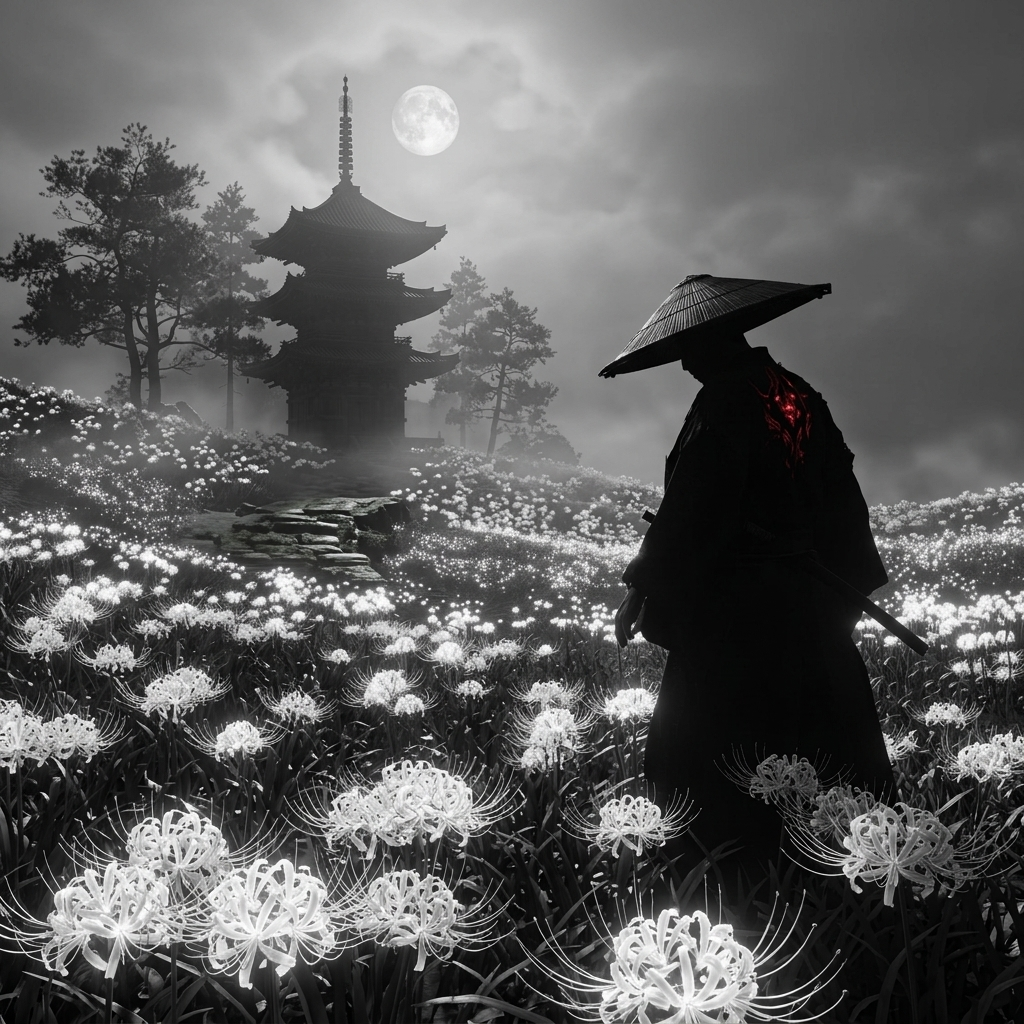
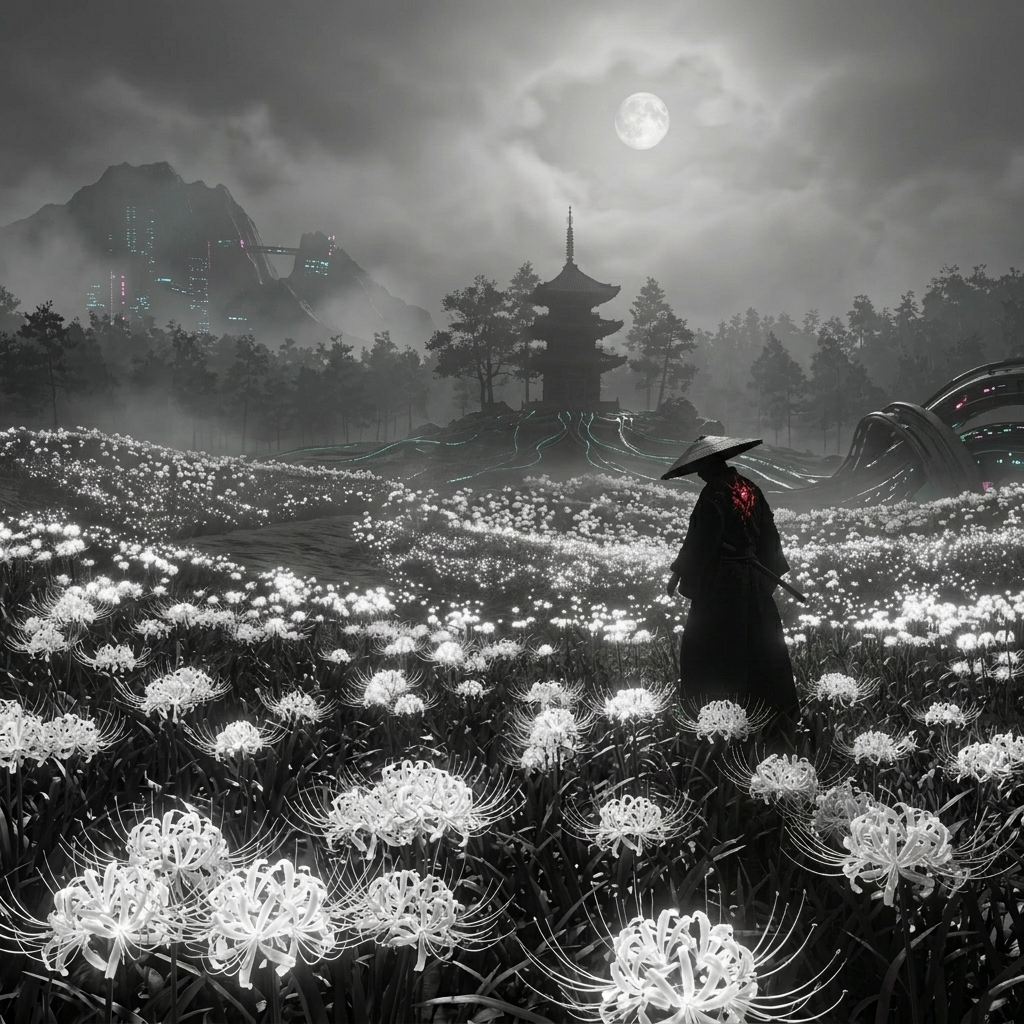
changes

diff --git a/src/index.css b/src/index.css
@@ -118,13 +118,24 @@ html[data-mode="hacker"] .bg-gradient {
 }
 
 html:not([data-mode="hacker"]) .bg-grid {
-  background-image: linear-gradient(rgba(11, 15, 23, 0.38), rgba(11, 15, 23, 0.48)), url('./assets/samurai-bg.png');
+  --bg-rx: 0deg;
+  --bg-ry: 0deg;
+  --bg-tx: 0px;
+  --bg-ty: 0px;
+  --bg-scale: 1.30;
+  --bg-parallax-y: 0px;
+
+  background-image:
+    radial-gradient(ellipse at center, transparent 30%, rgba(0, 0, 0, 0.45) 100%),
+    linear-gradient(rgba(11, 15, 23, 0.30), rgba(11, 15, 23, 0.40)),
+    url('./assets/samurai-bg.png');
   background-size: cover;
   background-position: center;
   background-repeat: no-repeat;
-  background-attachment: fixed;
   opacity: 1;
-  transform: none !important;
+  transform: perspective(1200px) scale(var(--bg-scale)) rotateX(var(--bg-rx)) rotateY(var(--bg-ry)) translate3d(var(--bg-tx), var(--bg-ty), 0px);
+  will-change: transform;
+  transform-origin: center center;
 }
 
 .bg-scanlines {
@@ -642,7 +653,8 @@ html[data-mode="hacker"] .profile-panel:hover {
   border-radius: 0.68rem;
   margin-top: 0.55rem;
   padding: 0.7rem;
-  background: color-mix(in srgb, var(--surface-strong) 65%, transparent);
+  background: transparent;
+  backdrop-filter: blur(4px);
 }
 
 .info-link:hover {
@@ -902,13 +914,13 @@ html[data-mode="hacker"] .skill-chip::before {
 
 .reveal {
   opacity: 0;
-  transform: perspective(900px) translateY(22px) rotateX(7deg) scale(0.985);
+  transform: perspective(900px) translateY(50px) rotateX(10deg) scale(0.95);
 }
 
 .reveal.show {
   opacity: 1;
   transform: perspective(900px) translateY(0) rotateX(0deg) scale(1);
-  transition: opacity 650ms ease, transform 700ms cubic-bezier(0.22, 1, 0.36, 1);
+  transition: opacity 800ms ease, transform 900ms cubic-bezier(0.22, 1, 0.36, 1);
 }
 
 .scroll-3d {
@@ -1386,11 +1398,11 @@ html:not([data-mode="hacker"]) .project-card,
 html:not([data-mode="hacker"]) .project-card-front,
 html:not([data-mode="hacker"]) .project-card-back,
 html:not([data-mode="hacker"]) .skill-chip {
-  background: linear-gradient(135deg, rgba(255, 255, 255, 0.10) 0%, rgba(255, 255, 255, 0.015) 60%, rgba(255, 255, 255, 0.0) 60.1%, rgba(255, 255, 255, 0.01) 100%) !important;
-  backdrop-filter: blur(28px) saturate(180%) !important;
-  -webkit-backdrop-filter: blur(28px) saturate(180%) !important;
-  border: 1px solid rgba(255, 255, 255, 0.22) !important;
-  box-shadow: inset 0 0 16px rgba(255, 255, 255, 0.15), 0 8px 32px 0 rgba(0, 0, 0, 0.28) !important;
+  background: linear-gradient(135deg, rgba(255, 255, 255, 0.08) 0%, rgba(255, 255, 255, 0.02) 100%) !important;
+  backdrop-filter: none !important;
+  -webkit-backdrop-filter: none !important;
+  border: 1px solid rgba(255, 255, 255, 0.18) !important;
+  box-shadow: inset 0 0 12px rgba(255, 255, 255, 0.10), 0 8px 32px 0 rgba(0, 0, 0, 0.2) !important;
 }
 
 /* Glassmorphism hover states */

diff --git a/src/App.jsx b/src/App.jsx
@@ -95,6 +95,17 @@ export default function App() {
       document.documentElement.style.setProperty("--cursor-x", `${xPercent}%`);
       document.documentElement.style.setProperty("--cursor-y", `${yPercent}%`);
 
+      // 3D parallax tilt on dev-mode background image
+      const bgGridEl = document.querySelector('.bg-grid');
+      if (bgGridEl && document.documentElement.getAttribute('data-mode') !== 'hacker') {
+        const normX = (cursorCurrentX / window.innerWidth) - 0.5;
+        const normY = (cursorCurrentY / window.innerHeight) - 0.5;
+        bgGridEl.style.setProperty('--bg-rx', `${(normY * -12).toFixed(3)}deg`);
+        bgGridEl.style.setProperty('--bg-ry', `${(normX * 12).toFixed(3)}deg`);
+        bgGridEl.style.setProperty('--bg-tx', `${(normX * -75).toFixed(2)}px`);
+        bgGridEl.style.setProperty('--bg-ty', `${(normY * -50).toFixed(2)}px`);
+      }
+
       const dx = Math.abs(cursorTargetX - cursorCurrentX);
       const dy = Math.abs(cursorTargetY - cursorCurrentY);
       if (dx < 0.2 && dy < 0.2) {
@@ -205,8 +216,8 @@ export default function App() {
         const rect = section.getBoundingClientRect();
         const centerY = rect.top + rect.height / 2;
         const offset = (window.innerHeight / 2 - centerY) / window.innerHeight;
-        const shift = Math.max(-14, Math.min(14, offset * 24));
-        const tilt = Math.max(-2.2, Math.min(2.2, offset * 3.6));
+        const shift = Math.max(-22, Math.min(22, offset * 32));
+        const tilt = Math.max(-3.5, Math.min(3.5, offset * 5.5));
         section.style.setProperty("--scroll-shift", `${shift}px`);
         section.style.setProperty("--scroll-tilt", `${tilt}deg`);
         section.classList.add("scroll-3d");
@@ -218,7 +229,14 @@ export default function App() {
         bgGradient.style.transform = `translateY(${scrollTop * -0.03}px)`;
       }
       if (bgGrid) {
-        bgGrid.style.transform = `translateY(${scrollTop * -0.018}px)`;
+        const isDevMode = document.documentElement.getAttribute('data-mode') !== 'hacker';
+        if (isDevMode) {
+          bgGrid.style.removeProperty('transform');
+          bgGrid.style.removeProperty('--bg-scale');
+          bgGrid.style.setProperty('--bg-parallax-y', '0px');
+        } else {
+          bgGrid.style.transform = `translateY(${scrollTop * -0.018}px)`;
+        }
       }
       if (bgNoise) {
         bgNoise.style.transform = `translateY(${scrollTop * -0.012}px)`;

diff --git a/src/content.js b/src/content.js
@@ -36,7 +36,7 @@ export const content = {
       ]
     },
     about: {
-      text: "I'm a frontend developer who obsesses over the gap between design and code. I build fast, interactive web experiences using React, Tailwind, and Vite — from hackathon prototypes to production-ready apps. I care deeply about UI details, smooth animations, and interfaces that feel good to use. Currently a CS student, always shipping something new."
+      text: "I'm a frontend developer and UI/UX designer who lives in the gap between pixels and logic. I craft fast, interactive web experiences using React, Tailwind, and Vite — obsessing over every hover state, transition timing, and layout rhythm along the way. From wireframe to working product, I own the full visual layer: information architecture, design systems, component libraries, and the micro-interactions that make users actually feel something. I think in grids but break them on purpose. I prototype fast, iterate faster, and never ship something that doesn't feel right at every screen size. Currently a CS student building hackathon prototypes by night and production-ready apps by day — I don't just build interfaces, I design experiences that feel intuitive before they're even learned."
     },
     projects: [
       {